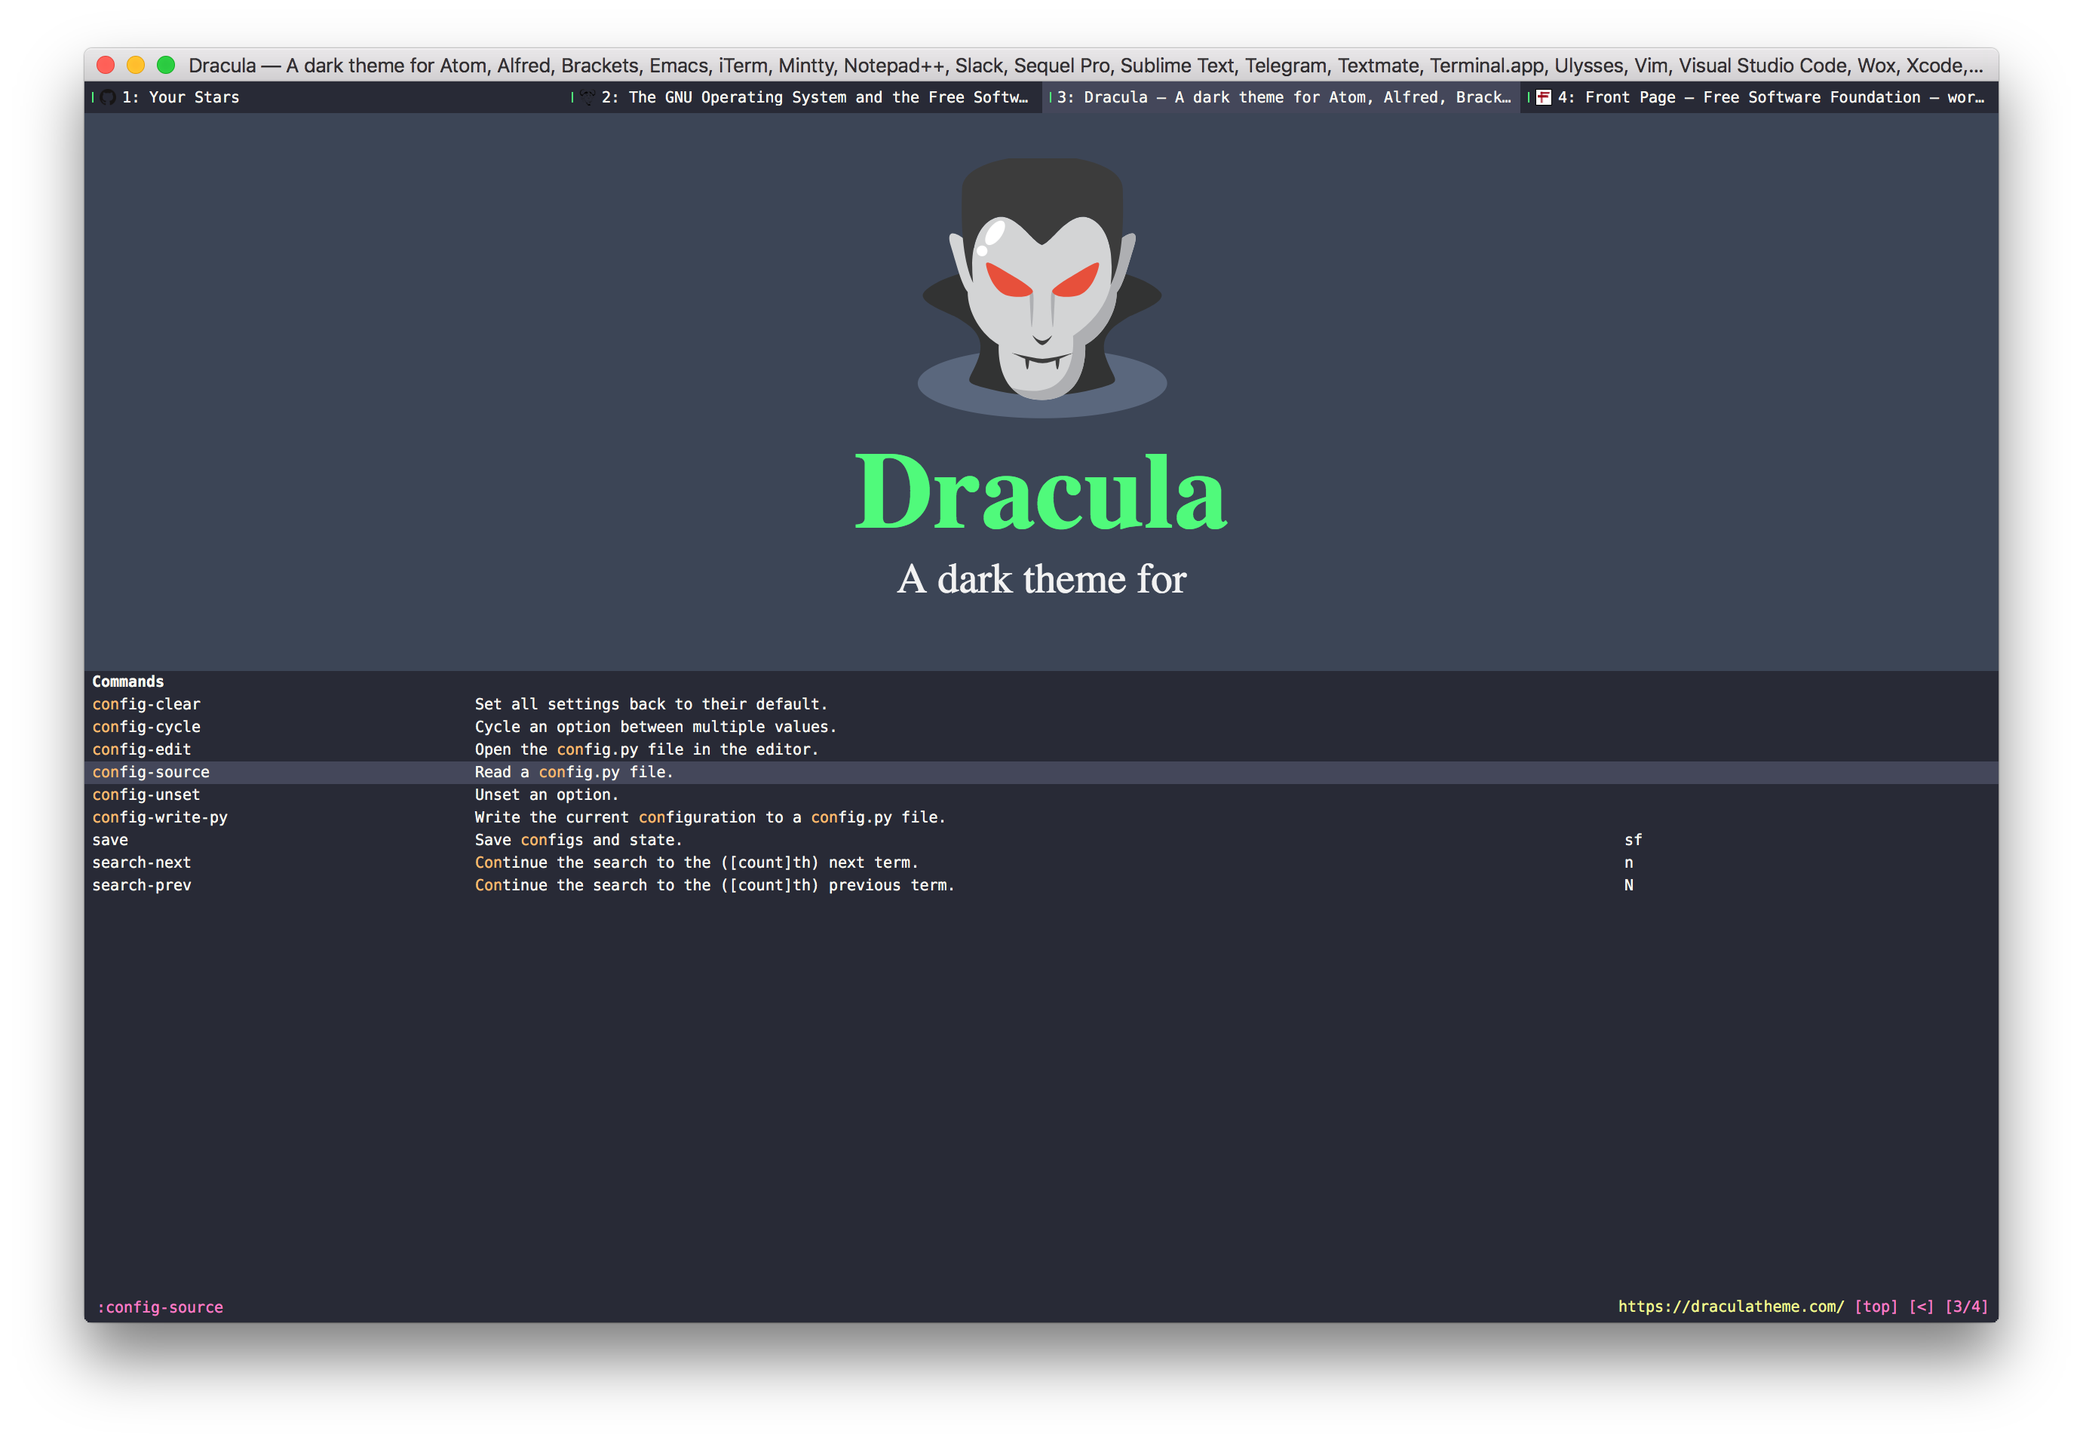
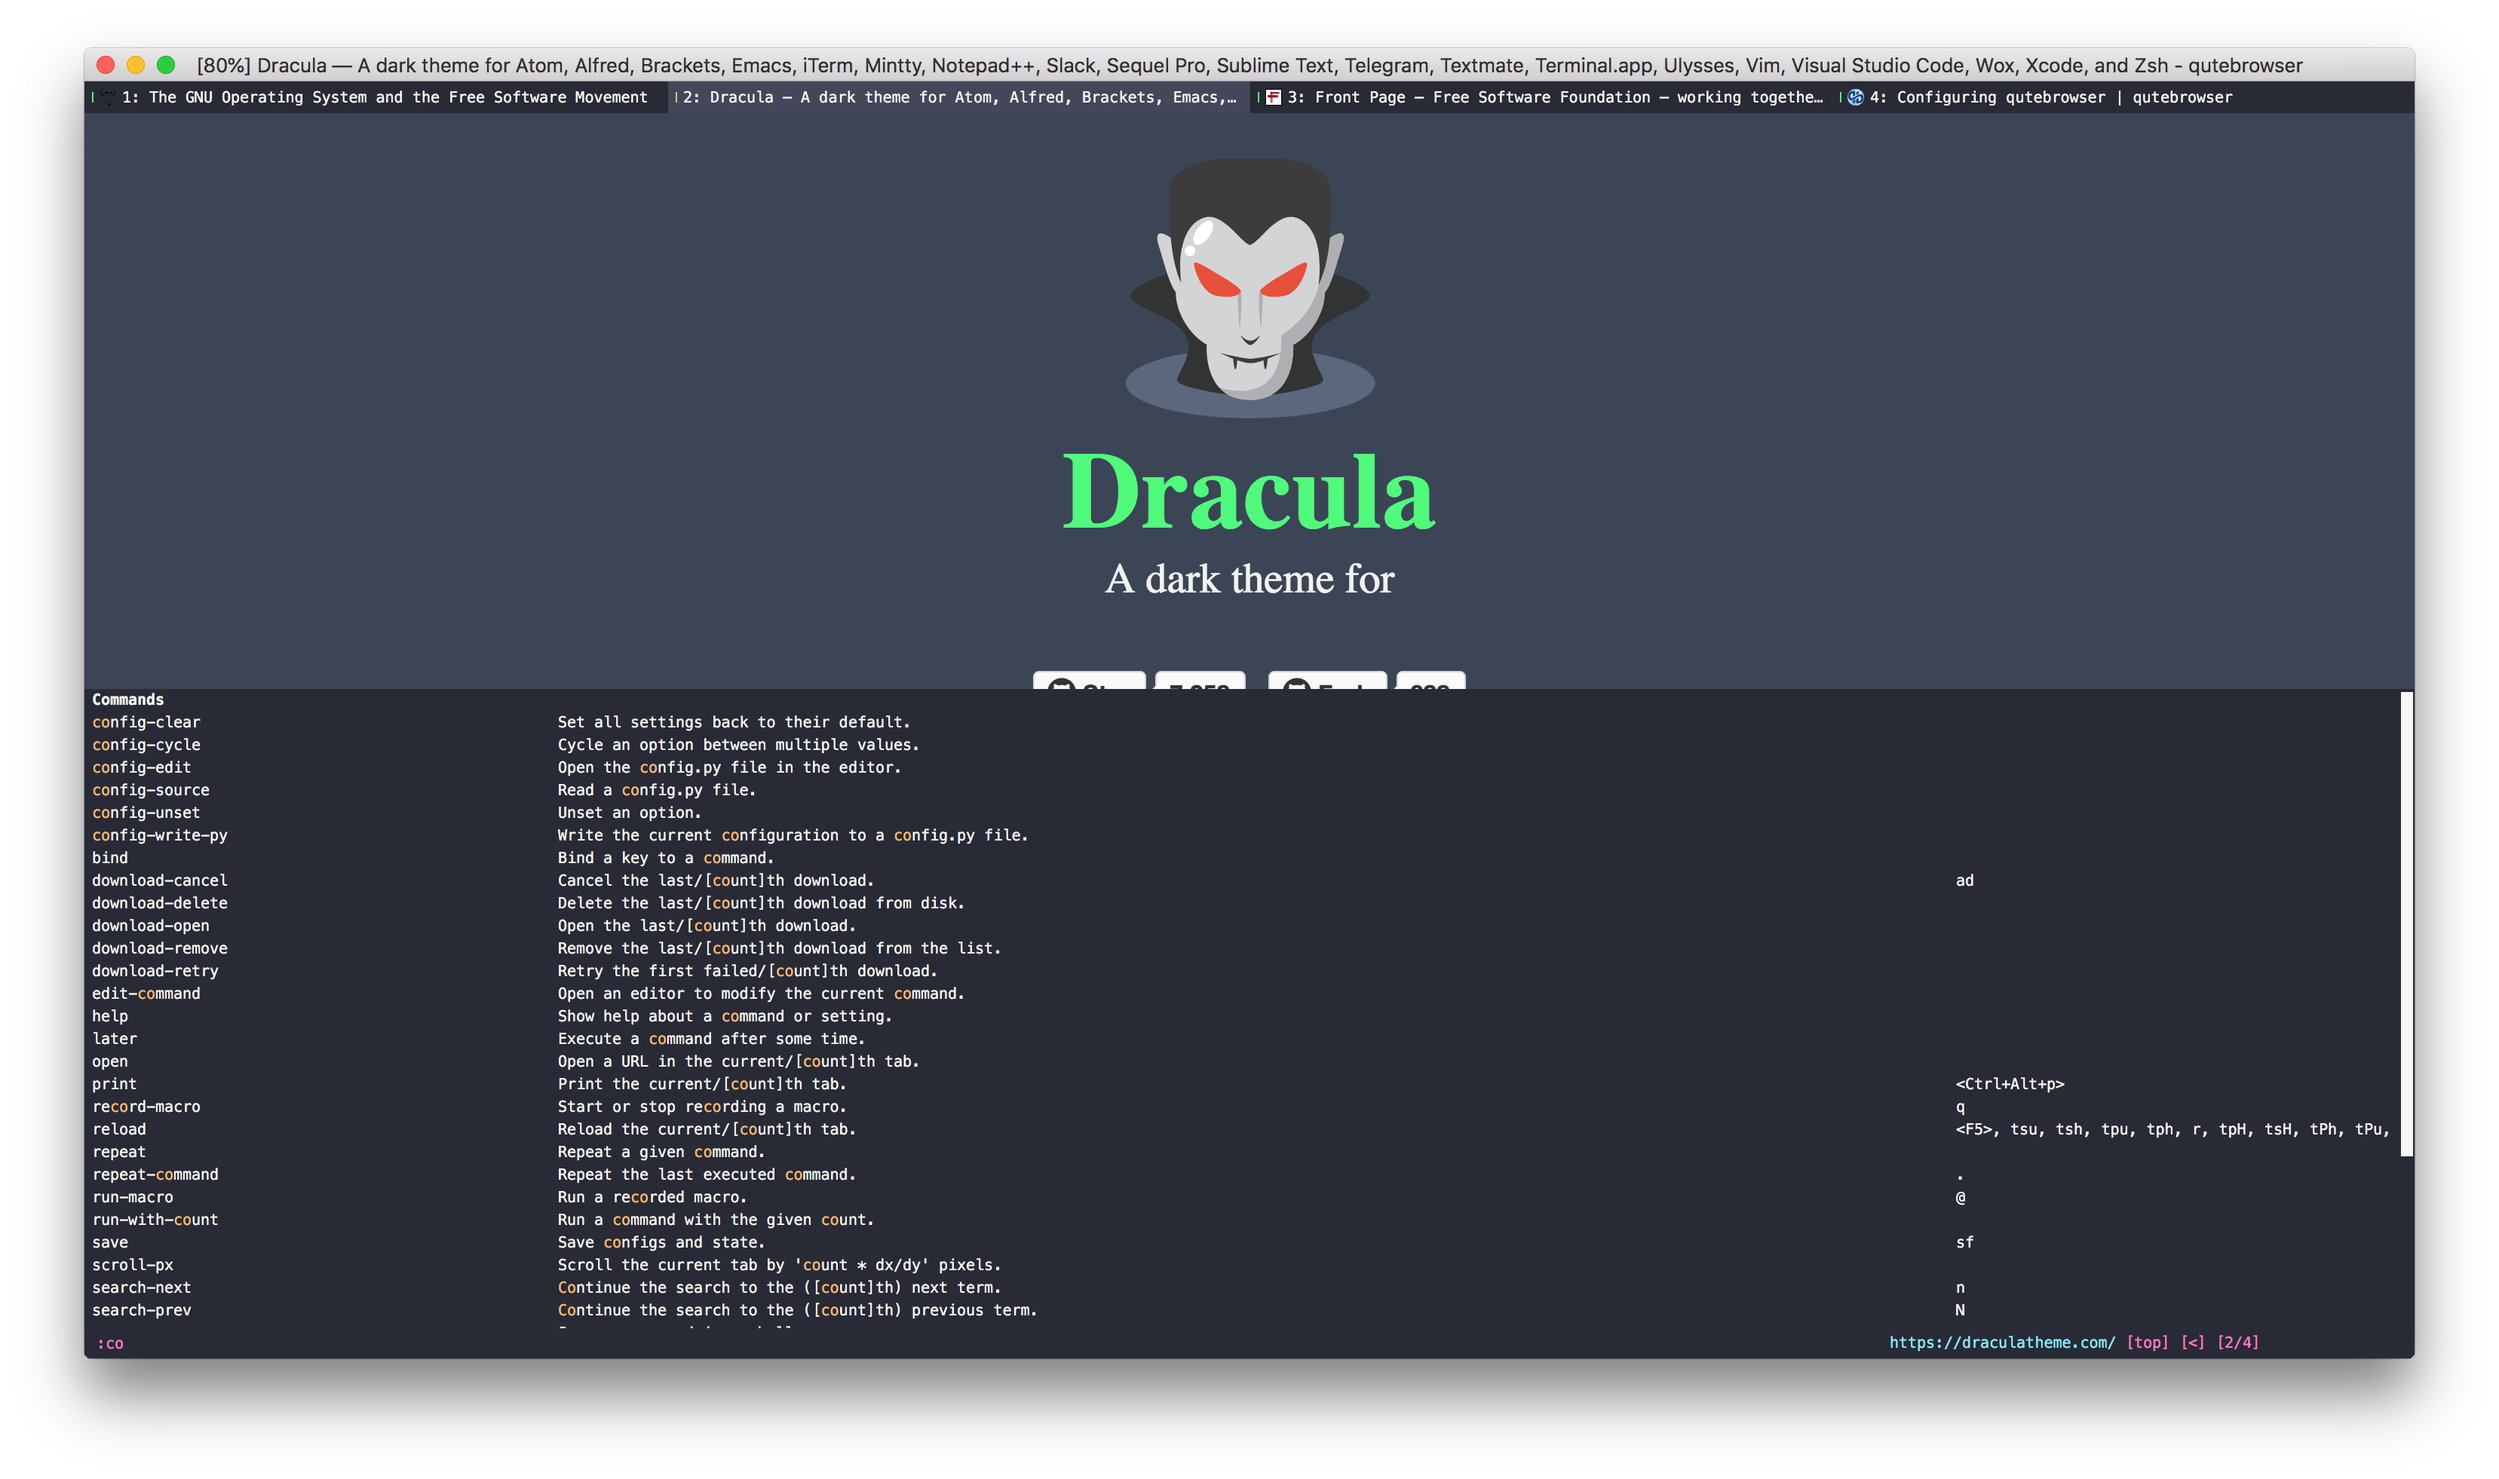
move config.py -> theme.py, update readme

diff --git a/theme.py b/theme.py
@@ -99,8 +99,7 @@ c.colors.hints.bg = palette['background']
 c.colors.hints.fg = palette['purple']
 
 ## Hints
-c.hints.border = '1px solid ' + palette['purple']
-c.hints.uppercase = True
+c.hints.border = '1px solid ' + palette['background-alt']
 
 ## Font color for the matched part of hints.
 c.colors.hints.match.fg = palette['foreground-alt']
@@ -287,8 +286,27 @@ c.tabs.padding = standard_padding
 c.tabs.indicator.width = 1
 c.tabs.favicons.scale = 1.3
 
-## Background color for webpages if unset (or empty to use the theme's
-## color)
-## Type: QtColor
-# c.colors.webpage.bg = 'white'
-
+# Fonts
+c.fonts.monospace = 'Menlo, "xos4 Terminus", Terminus, Monospace, "DejaVu Sans Mono", Monaco, "Bitstream Vera Sans Mono", "Andale Mono", "Courier New", Courier, "Liberation Mono", monospace, Fixed, Consolas, Terminal' 
+c.fonts.completion.entry = '10pt monospace'
+c.fonts.completion.category = 'bold'
+c.fonts.debug_console = '10pt monospace' 
+c.fonts.downloads = '10pt monospace'
+c.fonts.hints = '10pt monospace'
+c.fonts.keyhint = '10pt monospace'
+c.fonts.messages.error = '10pt monospace'
+c.fonts.messages.info = '10pt monospace'
+c.fonts.messages.warning = '10pt monospace'
+c.fonts.prompts = '10pt monospace'
+c.fonts.statusbar = '10pt monospace'
+c.fonts.tabs = '10pt monospace'
+c.fonts.web.family.standard = ''
+c.fonts.web.family.fixed = ''
+c.fonts.web.family.serif = ''
+c.fonts.web.family.sans_serif = ''
+c.fonts.web.family.cursive = ''
+c.fonts.web.family.fantasy = ''
+c.fonts.web.size.default = 16
+c.fonts.web.size.default_fixed = 13
+c.fonts.web.size.minimum = 0
+c.fonts.web.size.minimum_logical = 6

diff --git a/readme.md b/readme.md
@@ -6,7 +6,17 @@ A theme for [Qutebrowser](https://qutebrowser.org) based on the [Dracula](https:
 
 ## Installation
 
-This theme is intended as a starter config.py file. Check out the Qutebrowser documentation on [Configuring Qutebrowser](https://qutebrowser.org/doc/help/configuring.html), in particular the section on config.py.
+- Find your ~/.qutebrowser directory.
+- Create a subdirectory ~/.qutebrowser/themes
+- `cd ~/.qutebrowser/themes`
+- `git clone git@github.com:evannagle/qutebrowser-dracula-theme.git dracula`
+- In ~/.qutebrowser/config.py, add the following line:
+
+```python
+config.source('themes/dracula/theme.py')
+```
+
+For more information, check out the Qutebrowser documentation on [Configuring Qutebrowser](https://qutebrowser.org/doc/help/configuring.html), in particular the section on config.py.
 
 ## Other Cool Themes
 
